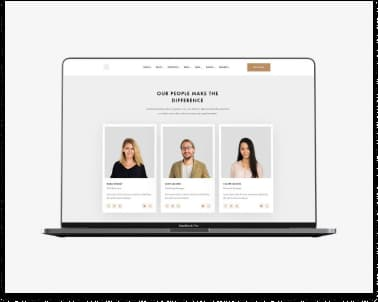
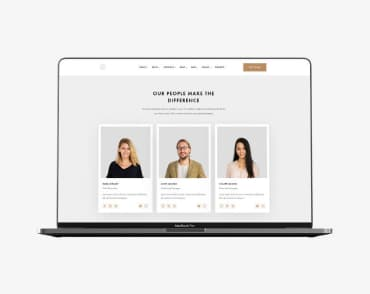
Внесла коригування після перевірки

diff --git a/css/styles.css b/css/styles.css
@@ -27,7 +27,7 @@ a {
         font-style: normal;
         font-weight: 700;
         font-size: 26px;
-        line-height: 119%;
+        line-height: 1.19;
         letter-spacing: 0.03em;
     color: var(--brand-color) ;
    }
@@ -37,7 +37,7 @@ a {
 .site-nav a {
         font-weight: 500;
         font-size: 14px;
-        line-height: 114%;
+        line-height: 1.14;
         letter-spacing: 0.02em;
     color: var(--second-text-color)
 }
@@ -49,9 +49,9 @@ a.current {
     color: var(--brand-color);
 }
 .auth-nav {
-            font-weight: 500;
+        font-weight: 500;
         font-size: 14px;
-        line-height: 114%;
+        line-height: 1.14;
         letter-spacing: 0.02em;
 color: var(--main-text-color);
 }
@@ -64,9 +64,9 @@ color: var(--main-text-color);
     background-color: #2F303A;
 }
 .hero-title {
-          font-weight: 900;
+        font-weight: 900;
         font-size: 44px;
-        line-height: 136%;
+        line-height: 1.36;
         text-align: center;
         letter-spacing: 0.06em;
         text-transform: uppercase;
@@ -77,7 +77,7 @@ color: var(--main-text-color);
     
         font-weight: 700;
         font-size: 16px;
-        line-height: 188%;
+        line-height: 1.88;
         display: flex;
         align-items: center;
         text-align: center;
@@ -95,9 +95,9 @@ background-color: #188CE8;
 }
 
 .features h3 {
-          font-weight: 700;
+        font-weight: 700;
         font-size: 14px;
-        line-height: 114%;
+        line-height: 1.14;
         letter-spacing: 0.03em;
         text-transform: uppercase;
         color: var(--second-text-color)
@@ -105,13 +105,13 @@ background-color: #188CE8;
 }
 .features p {
         font-size: 14px;
-        line-height: 171%;
+        line-height: 1.71;
         letter-spacing: 0.03em;
     }
 .working h2 {
         font-weight: 700;
         font-size: 36px;
-        line-height: 116%;
+        line-height: 1.16;
         text-align: center;
         letter-spacing: 0.03em;
         color: var(--second-text-color)
@@ -122,7 +122,7 @@ background-color: #188CE8;
 .team h2  {
         font-weight: 700;
         font-size: 36px;
-        line-height: 116%;
+        line-height: 1.16;
         text-align: center;
         letter-spacing: 0.03em;
         color: var(--second-text-color);
@@ -131,16 +131,15 @@ background-color: #188CE8;
 .team h3 {
         font-weight: 500;
         font-size: 16px;
-        line-height: 119%;
+        line-height: 1.19;
         text-align: center;
         letter-spacing: 0.03em;
         color: var(--second-text-color)
     
 }
 .team p {
-         font-weight: 400;
         font-size: 16px;
-        line-height: 119%;
+        line-height: 1.19;
         text-align: center;
         letter-spacing: 0.03em;
     
@@ -153,7 +152,7 @@ background-color: #2F303A;
     font-family: 'Raleway';
         font-weight: 700;
         font-size: 26px;
-        line-height: 119%;
+        line-height: 1.19;
         letter-spacing: 0.03em;
     color: var(--brand-color);
 }
@@ -162,9 +161,8 @@ background-color: #2F303A;
 }
 address {
         font-style: normal;
-        font-weight: 400;
         font-size: 14px;
-        line-height: 171%;
+        line-height: 1.71;
         letter-spacing: 0.03em;
 }
 .company-address {
@@ -184,10 +182,10 @@ address {
             /* Portfolio */
 
 .filters-list button {
-    font-family: 'Roboto';
-    font-weight: 500;
+        font-weight: 500;
         font-size: 16px;
-        line-height: 163%;
+        line-height: 1.63;
+        letter-spacing: 0.03em;
 background: var(--color-light-gray);
 cursor: pointer;
 }
@@ -199,14 +197,14 @@ cursor: pointer;
 .works-list H2 {
 font-weight: 700;
     font-size: 18px;
-    line-height: 200%;
+    line-height: 2;
+    letter-spacing: 0.06em;
     color: var(--second-text-color)
     }
 .works-list p {
-    font-weight: 400;
         font-size: 16px;
-        line-height: 188%;
-        
+        line-height: 1.88;
+        letter-spacing: 0.03em;
 }
 
 

diff --git a/index.html b/index.html
@@ -52,9 +52,11 @@
         </section>
         <section class="working">
             <h2>Чим ми займаємося</h2>
-            <img src="./image/pic1.jpg" alt="Програміст пише код" width="370">
-            <img src="./image/pic2.jpg" alt="Дизайнер робить макет додатка для телефона" width="370">
-            <img src="./image/pic3.jpg" alt="Палітра кольорів на екрані планшета" width="370">
+            <ul class="list">
+            <li><img src="./image/pic1.jpg" alt="Програміст пише код" width="370"></li>
+            <li><img src="./image/pic2.jpg" alt="Дизайнер робить макет додатка для телефона" width="370"></li>
+            <li><img src="./image/pic3.jpg" alt="Палітра кольорів на екрані планшета" width="370"></li>
+            </ul>
         </section>
         <section class="team">
             <h2>Наша команда</h2>
